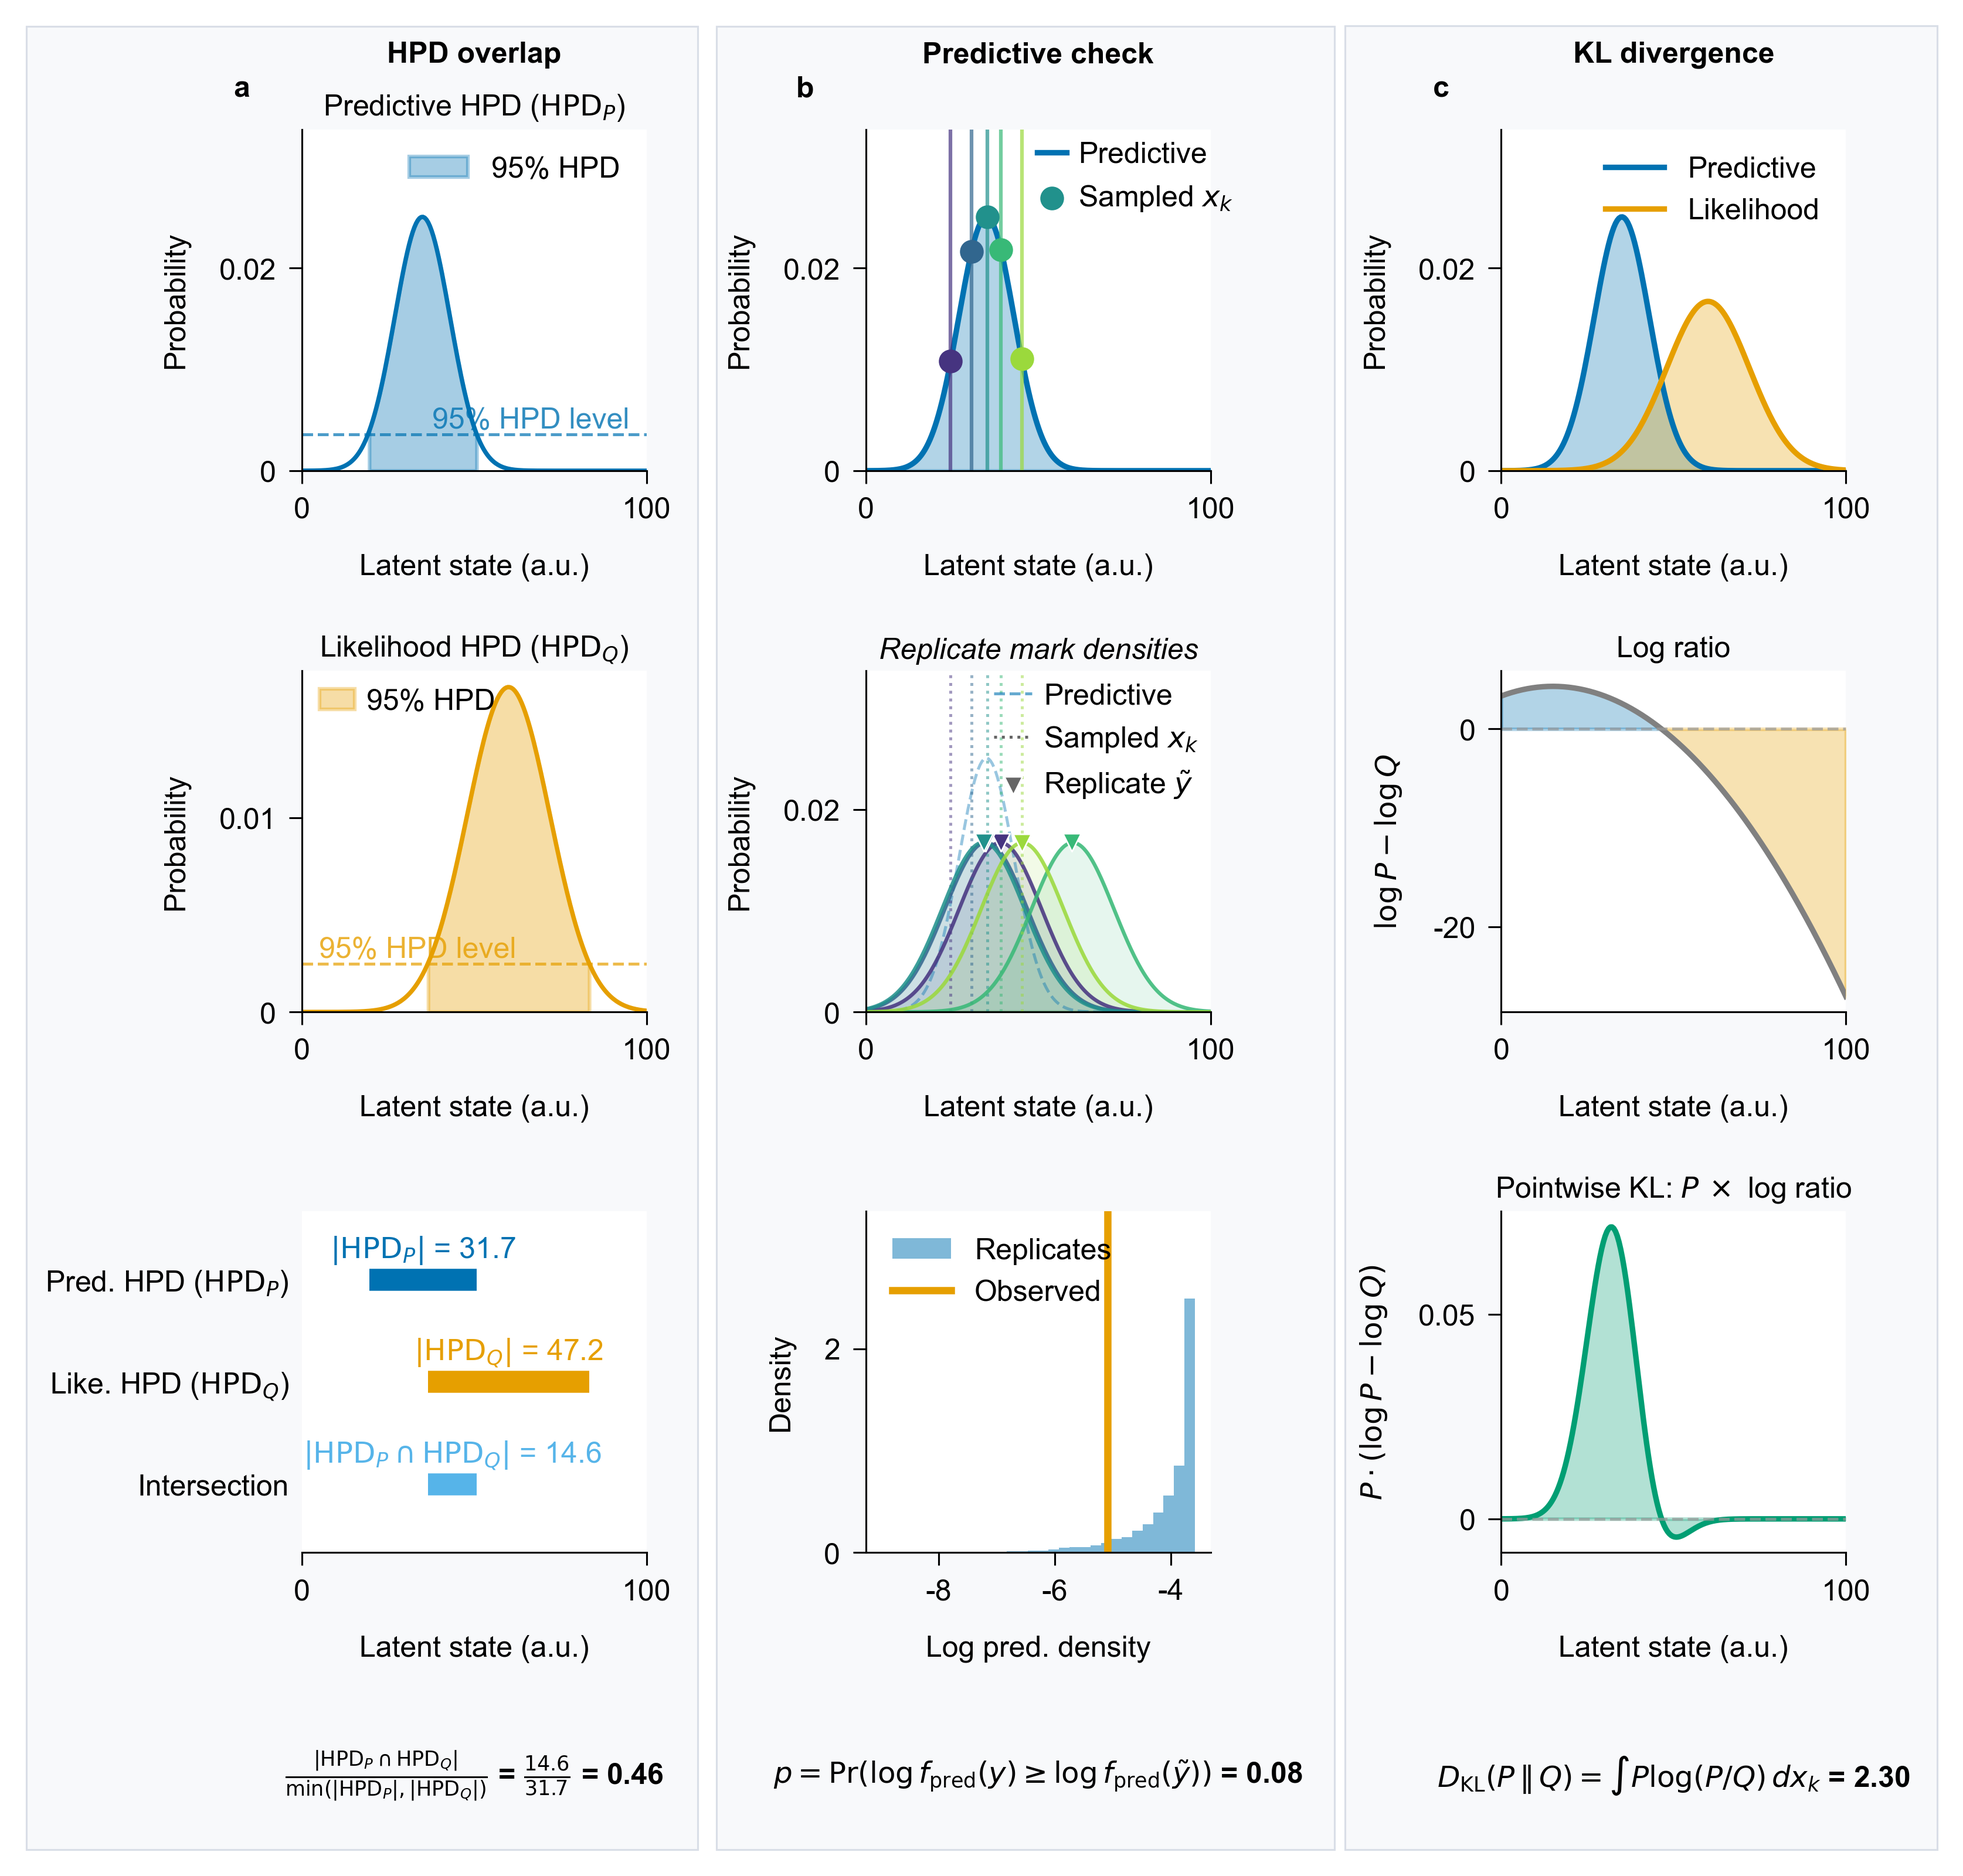
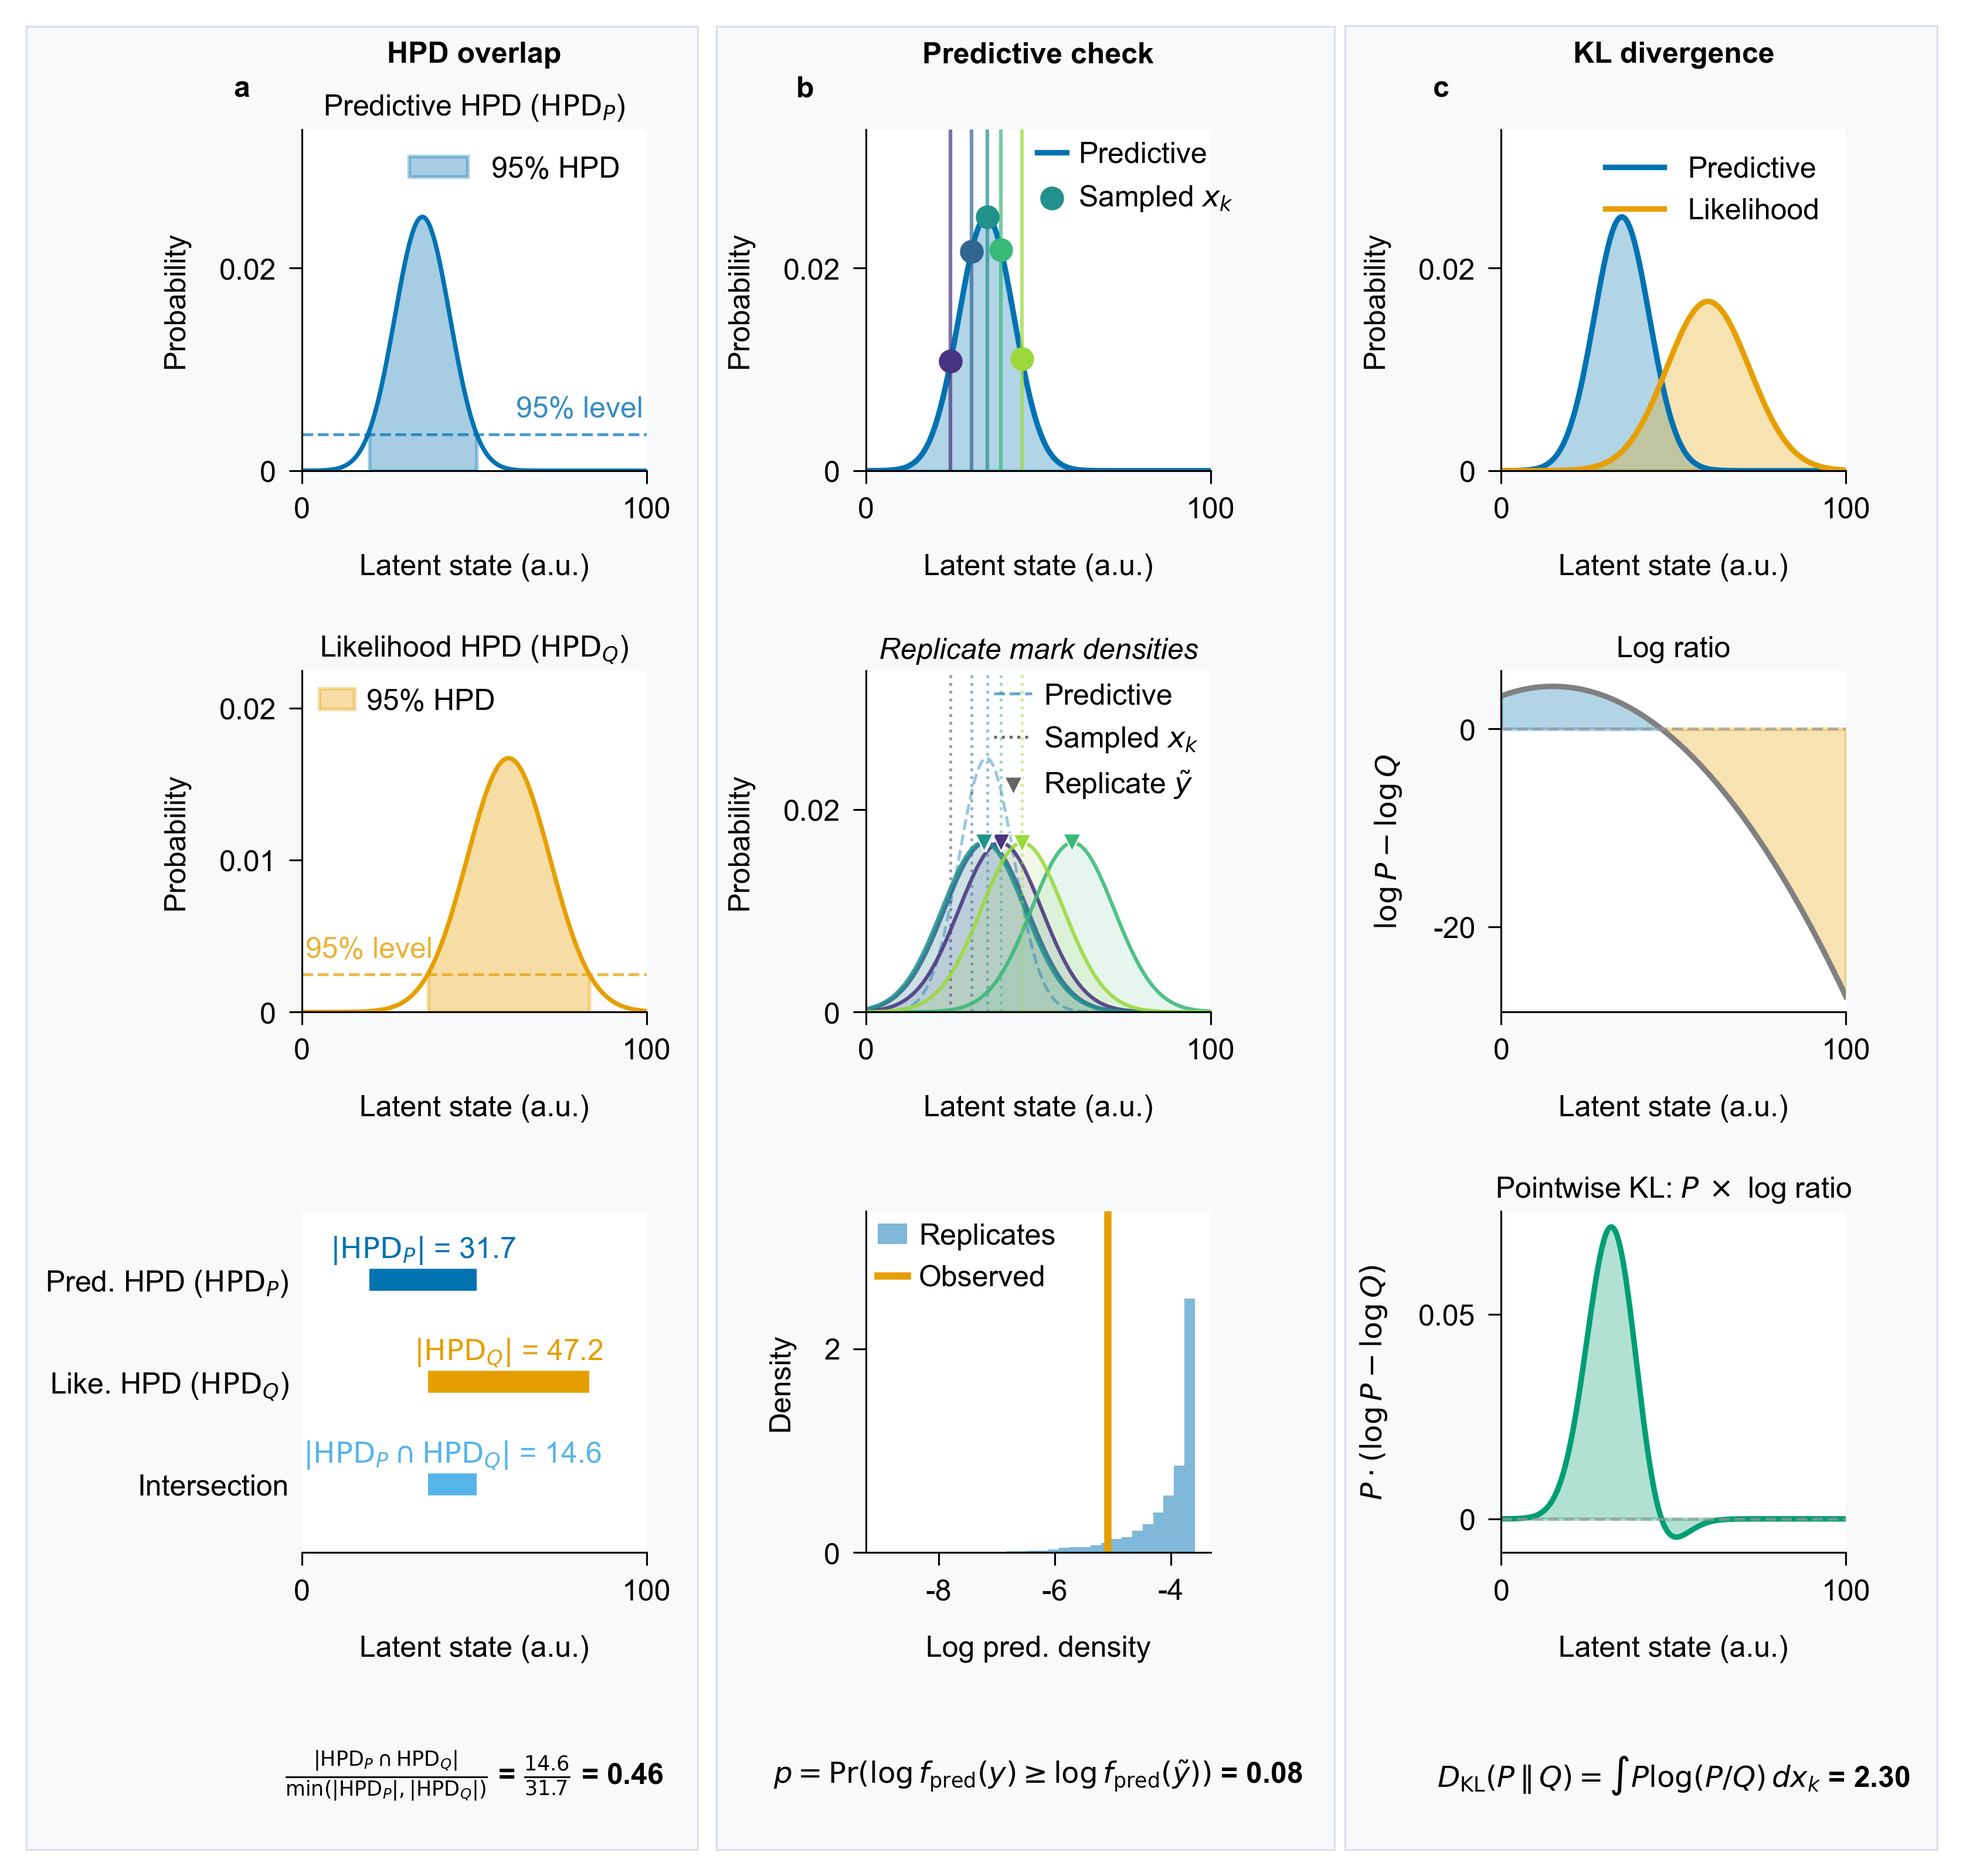
Keep Figure 2's labels clear of its curves
The curves ran through the HPD-level text, the observed line crossed the
histogram legend, and a legend touched the likelihood curve. Shorten the
level label, lift it off its line so the curve leans away from it, tighten
the histogram legend, and give the likelihood panel the headroom of the
others.

Changed region(s): [[0.1553, 0.3438, 0.3106, 0.5312], [0.4349, 0.6562, 0.5591, 0.6875], [0.2174, 0.2188, 0.3106, 0.25]]

diff --git a/src/statespacecheck_paper/figure02_panels.py b/src/statespacecheck_paper/figure02_panels.py
@@ -372,10 +372,12 @@ def _plot_hpd_panel(
         label=f"{HPD_COVERAGE:.0%} HPD",
     )
     ax.axhline(hpd_density_level, color=color, linestyle="--", linewidth=0.8, alpha=0.7)
-    ax.text(
-        label_x,
-        hpd_density_level,
-        f"{HPD_COVERAGE:.0%} HPD level",
+    # Lift the label off the line: the curve leans away from it as it rises.
+    ax.annotate(
+        f"{HPD_COVERAGE:.0%} level",
+        xy=(label_x, hpd_density_level),
+        xytext=(0, 3),
+        textcoords="offset points",
         ha=label_ha,
         va="bottom",
         color=color,
@@ -397,7 +399,7 @@ def plot_hpd_predictive(ax: Axes, data: Figure2ExampleData) -> None:
         data.predictive,
         color=COLORS["predictive"],
         title=r"Predictive HPD ($\mathrm{HPD}_P$)",
-        label_x=95,
+        label_x=99,
         label_ha="right",
         legend_kwargs={"loc": "upper right"},
     )
@@ -405,7 +407,7 @@ def plot_hpd_predictive(ax: Axes, data: Figure2ExampleData) -> None:
 
 def plot_hpd_likelihood(ax: Axes, data: Figure2ExampleData) -> None:
     """Likelihood distribution with 95% HPD region shaded."""
-    # Curve peaks center-right, so the HPD-level label sits on the left and the
+    # Curve peaks center-right, so the level label sits on the left and the
     # legend is tucked into the empty upper-left corner against the y-axis.
     _plot_hpd_panel(
         ax,
@@ -413,7 +415,7 @@ def plot_hpd_likelihood(ax: Axes, data: Figure2ExampleData) -> None:
         data.likelihood,
         color=COLORS["likelihood"],
         title=r"Likelihood HPD ($\mathrm{HPD}_Q$)",
-        label_x=5,
+        label_x=1,
         label_ha="left",
         legend_kwargs={
             "loc": "upper left",
@@ -741,7 +743,14 @@ def plot_predictive_check_density_histogram(ax: Axes, data: Figure2ExampleData) 
 
     ax.set_xlabel("Log pred. density", labelpad=8)
     ax.set_ylabel("Density", labelpad=8)
-    ax.legend(frameon=False, loc="upper left")
+    # A short handle keeps the legend's right edge left of the observed value.
+    ax.legend(
+        frameon=False,
+        loc="upper left",
+        handlelength=1.0,
+        handletextpad=0.4,
+        borderaxespad=0.0,
+    )
     ax.spines["top"].set_visible(False)
     ax.spines["right"].set_visible(False)
     _mark_round_values(ax.xaxis)

diff --git a/tests/test_figures.py b/tests/test_figures.py
@@ -167,6 +167,41 @@ def test_figure02_numeric_ticks_are_labeled_with_the_values_they_sit_at() -> Non
     np.testing.assert_allclose(locations, labels, rtol=1e-9, atol=1e-12)
 
 
+@pytest.mark.parametrize("dist_name", ["predictive", "likelihood"])
+def test_figure02_hpd_level_label_clears_its_curve(dist_name: str) -> None:
+    """Every curve point under the drawn "95% level" label lies below the
+    label, so the curve never runs through the text."""
+    import matplotlib.pyplot as plt
+
+    from statespacecheck_paper.figure02_generation import compose_figure02
+    from statespacecheck_paper.figure02_panels import create_shared_example
+    from statespacecheck_paper.style import set_figure_defaults
+
+    data = create_shared_example(np.random.default_rng(42))
+    # Text size and layout decide the clearance, so measure the published style.
+    with plt.rc_context():
+        set_figure_defaults()
+        fig = compose_figure02()
+        try:
+            fig.canvas.draw()
+            ax, label = next(
+                (ax, text)
+                for ax in fig.axes
+                for text in ax.texts
+                if text.get_text() == "95% level" and ax.get_title().lower().startswith(dist_name)
+            )
+            box = label.get_window_extent()
+            curve = ax.transData.transform(
+                np.column_stack([data.position_bins, getattr(data, dist_name)])
+            )
+        finally:
+            plt.close(fig)
+
+    under_label = (curve[:, 0] >= box.x0) & (curve[:, 0] <= box.x1)
+    assert under_label.sum() > 5
+    assert curve[under_label, 1].max() < box.y0
+
+
 @pytest.mark.parametrize("observed_in_tail", [False, True])
 def test_figure02_density_histogram_crops_the_sparse_tail(observed_in_tail: bool) -> None:
     """The histogram drops the simulated values below the crop quantile but

diff --git a/manuscript/reported_values.tex b/manuscript/reported_values.tex
@@ -4,7 +4,7 @@
 % (except the DOIs, whose comments name their sources):
 %   figures/main/figure03_summary.json (schema 10)
 %   figures/main/figure04_summary.json (schema 15)
-% source_tree_sha256: 1dca5e7d6cdef778a1aaac33fa4bfc82834378de20ae93420677554fed69a8c6
+% source_tree_sha256: 53ef18acb581cbd79c9e479354c01ff1f20241535251dcd9c2756081da199170
 %
 % Regenerate with: uv run python scripts/emit_reported_values.py
 

diff --git a/src/statespacecheck_paper/figure02_generation.py b/src/statespacecheck_paper/figure02_generation.py
@@ -272,6 +272,7 @@ def compose_figure02(rng: np.random.Generator | None = None) -> Figure:
     for key in (
         "kl_distributions",
         "hpd_predictive",
+        "hpd_likelihood",
         "predictive_distribution",
         "predictive_simulations",
         "predictive_histogram",
